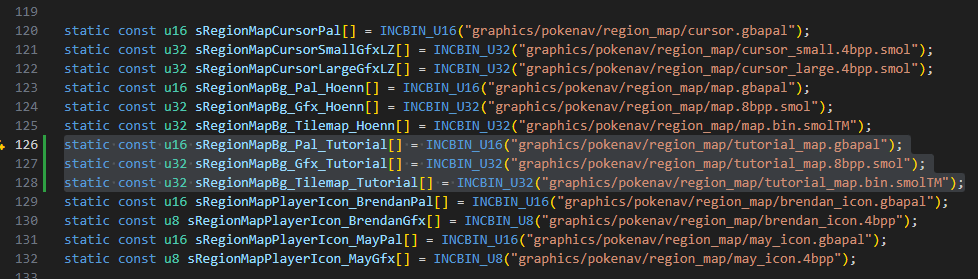
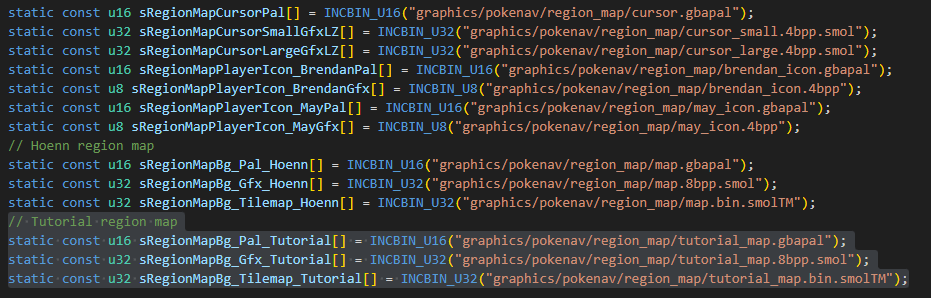
Added multi-region logic to the pokedex area region map and hgss pokedex

diff --git a/src/pokedex_area_region_map.c b/src/pokedex_area_region_map.c
@@ -4,15 +4,81 @@
 #include "bg.h"
 #include "malloc.h"
 #include "palette.h"
+#include "regions.h"
 #include "pokedex_area_region_map.h"
 
 static EWRAM_DATA u8 *sPokedexAreaMapBgNum = NULL;
 
-static const u16 ALIGNED(4) sPokedexAreaMap_Pal[] = INCBIN_U16("graphics/pokedex/region_map.gbapal");
-static const u32 sPokedexAreaMap_Gfx[] = INCBIN_U32("graphics/pokedex/region_map.8bpp.smol");
-static const u32 sPokedexAreaMap_Tilemap[] = INCBIN_U32("graphics/pokedex/region_map.bin.smolTM");
+// Hoenn region map
+static const u16 ALIGNED(4) sPokedexAreaMap_Pal_Hoenn[] = INCBIN_U16("graphics/pokedex/region_map_hoenn.gbapal");
+static const u32 sPokedexAreaMap_Gfx_Hoenn[] = INCBIN_U32("graphics/pokedex/region_map_hoenn.8bpp.smol");
+static const u32 sPokedexAreaMap_Tilemap_Hoenn[] = INCBIN_U32("graphics/pokedex/region_map_hoenn.bin.smolTM");
+// Affine versions (not used)
 static const u32 sPokedexAreaMapAffine_Gfx[] = INCBIN_U32("graphics/pokedex/region_map_affine.8bpp.smol");
 static const u32 sPokedexAreaMapAffine_Tilemap[] = INCBIN_U32("graphics/pokedex/region_map_affine.bin.smolTM");
+
+const u16 *GetPokedexAreaMapPal(void)
+{
+    switch (GetCurrentRegion())
+    {
+    case REGION_KANTO:
+    case REGION_JOHTO:
+    case REGION_SINNOH:
+    case REGION_UNOVA:
+    case REGION_KALOS:
+    case REGION_ALOLA:
+    case REGION_GALAR:
+    case REGION_HISUI:
+    case REGION_PALDEA:
+    case REGION_HOENN:
+    case REGION_NONE:
+    case REGIONS_COUNT:
+        return sPokedexAreaMap_Pal_Hoenn;
+    }
+    return sPokedexAreaMap_Pal_Hoenn;
+}
+
+const u32 *GetPokedexAreaMapGfx(void)
+{
+    switch (GetCurrentRegion())
+    {
+    case REGION_KANTO:
+    case REGION_JOHTO:
+    case REGION_SINNOH:
+    case REGION_UNOVA:
+    case REGION_KALOS:
+    case REGION_ALOLA:
+    case REGION_GALAR:
+    case REGION_HISUI:
+    case REGION_PALDEA:
+    case REGION_HOENN:
+    case REGION_NONE:
+    case REGIONS_COUNT:
+        return sPokedexAreaMap_Gfx_Hoenn;
+    }
+    return sPokedexAreaMap_Gfx_Hoenn;
+}
+
+const u32 *GetPokedexAreaMapTilemap(void)
+{
+    switch (GetCurrentRegion())
+    {
+    case REGION_KANTO:
+    case REGION_JOHTO:
+    case REGION_SINNOH:
+    case REGION_UNOVA:
+    case REGION_KALOS:
+    case REGION_ALOLA:
+    case REGION_GALAR:
+    case REGION_HISUI:
+    case REGION_PALDEA:
+    case REGION_HOENN:
+    case REGION_NONE:
+    case REGIONS_COUNT:
+        return sPokedexAreaMap_Tilemap_Hoenn;
+    }
+    return sPokedexAreaMap_Tilemap_Hoenn;
+}
 
 void LoadPokedexAreaMapGfx(const struct PokedexAreaMapTemplate *template)
 {
@@ -24,8 +90,8 @@ void LoadPokedexAreaMapGfx(const struct PokedexAreaMapTemplate *template)
     if (mode == 0)
     {
         SetBgAttribute(template->bg, BG_ATTR_METRIC, 0);
-        DecompressAndCopyTileDataToVram(template->bg, sPokedexAreaMap_Gfx, 0, template->offset, 0);
-        tilemap = DecompressAndCopyTileDataToVram(template->bg, sPokedexAreaMap_Tilemap, 0, 0, 1);
+        DecompressAndCopyTileDataToVram(template->bg, GetPokedexAreaMapGfx(), 0, template->offset, 0);
+        tilemap = DecompressAndCopyTileDataToVram(template->bg, GetPokedexAreaMapTilemap(), 0, 0, 1);
         AddValToTilemapBuffer(tilemap, template->offset, 32, 32, FALSE); // template->offset is always 0, so this does nothing.
     }
     else
@@ -41,7 +107,7 @@ void LoadPokedexAreaMapGfx(const struct PokedexAreaMapTemplate *template)
     ChangeBgX(template->bg, 0, BG_COORD_SET);
     ChangeBgY(template->bg, 0, BG_COORD_SET);
     SetBgAttribute(template->bg, BG_ATTR_PALETTEMODE, 1);
-    CpuCopy32(sPokedexAreaMap_Pal, &gPlttBufferUnfaded[BG_PLTT_ID(7)], sizeof(sPokedexAreaMap_Pal));
+    CpuCopy32(GetPokedexAreaMapPal(), &gPlttBufferUnfaded[BG_PLTT_ID(7)], sizeof(GetPokedexAreaMapPal()));
     *sPokedexAreaMapBgNum = template->bg;
 }
 

diff --git a/src/region_map.c b/src/region_map.c
@@ -120,13 +120,14 @@ static void CB_ExitFlyMap(void);
 static const u16 sRegionMapCursorPal[] = INCBIN_U16("graphics/pokenav/region_map/cursor.gbapal");
 static const u32 sRegionMapCursorSmallGfxLZ[] = INCBIN_U32("graphics/pokenav/region_map/cursor_small.4bpp.smol");
 static const u32 sRegionMapCursorLargeGfxLZ[] = INCBIN_U32("graphics/pokenav/region_map/cursor_large.4bpp.smol");
-static const u16 sRegionMapBg_Pal_Hoenn[] = INCBIN_U16("graphics/pokenav/region_map/map.gbapal");
-static const u32 sRegionMapBg_Gfx_Hoenn[] = INCBIN_U32("graphics/pokenav/region_map/map.8bpp.smol");
-static const u32 sRegionMapBg_Tilemap_Hoenn[] = INCBIN_U32("graphics/pokenav/region_map/map.bin.smolTM");
 static const u16 sRegionMapPlayerIcon_BrendanPal[] = INCBIN_U16("graphics/pokenav/region_map/brendan_icon.gbapal");
 static const u8 sRegionMapPlayerIcon_BrendanGfx[] = INCBIN_U8("graphics/pokenav/region_map/brendan_icon.4bpp");
 static const u16 sRegionMapPlayerIcon_MayPal[] = INCBIN_U16("graphics/pokenav/region_map/may_icon.gbapal");
 static const u8 sRegionMapPlayerIcon_MayGfx[] = INCBIN_U8("graphics/pokenav/region_map/may_icon.4bpp");
+// Hoenn region map
+static const u16 sRegionMapBg_Pal_Hoenn[] = INCBIN_U16("graphics/pokenav/region_map/map.gbapal");
+static const u32 sRegionMapBg_Gfx_Hoenn[] = INCBIN_U32("graphics/pokenav/region_map/map.8bpp.smol");
+static const u32 sRegionMapBg_Tilemap_Hoenn[] = INCBIN_U32("graphics/pokenav/region_map/map.bin.smolTM");
 
 #include "data/region_map/region_map_entries.h"
 #include "data/region_map/region_map_layout_hoenn.h"

diff --git a/docs/tutorials/how_to_multi_region.md b/docs/tutorials/how_to_multi_region.md
@@ -12,7 +12,7 @@ Then we have a couple steps to take to implement our region:
 * Add strings for our region and handle them
 * Add our region map files to the correct locations
 * Handle our region in the town map graphics
-* Handle our region in the pokedex (TODO)
+* Handle our region in the pokedex graphics
 * Handle our region in the daycare (TODO)
 
 ## Add our region to the list of available regions
@@ -52,3 +52,20 @@ Finally we need to add a case for our region to the functions that serve these r
 ![GetCurrentRegionMapBgTilemap](img/multi-region/GetCurrentRegionMapBgTilemap.png)
 
 ![GetCurrentRegionMapLayout](img/multi-region/GetCurrentRegionMapLayout.png)
+
+## Handling our region in the pokedex graphics
+Just like with the town mep we need to add cases for our region to the [src/pokedex_area_region_map.c](../../src/pokedex_area_region_map.c) file. The functions we will be adding our cases to are the `GetPokedexAreaMapPal`, `GetPokedexAreaMapGfx`, and `GetPokedexAreaMapTilemap`. Below are examples for our Tutorial region.
+
+![GetPokedexAreaMapPal](img/multi-region/GetPokedexAreaMapPal.png)
+
+![GetPokedexAreaMapGfx](img/multi-region/GetPokedexAreaMapGfx.png)
+
+![GetPokedexAreaMapTilemap](img/multi-region/GetPokedexAreaMapTilemap.png)
+
+## Handling our region in the HGSS pokedex
+One last place that we must handle our new region is [src/pokedex_plus_hgss.c](../../src/pokedex_plus_hgss.c). Inside the `PrintEvolutionTargetSpeciesAndMethod` function is a switch statement we must add our new region to. Below is an example for our Tutorial region.
+
+![pokedex_plus_hgss_c](img/multi-region/pokedex_plus_hgss_c.png)
+
+## Handling our region in the daycare
+There is no strict requirement to handle our new region in the daycare system however should you wish to implement custom regional forms then this is where it would be done.
